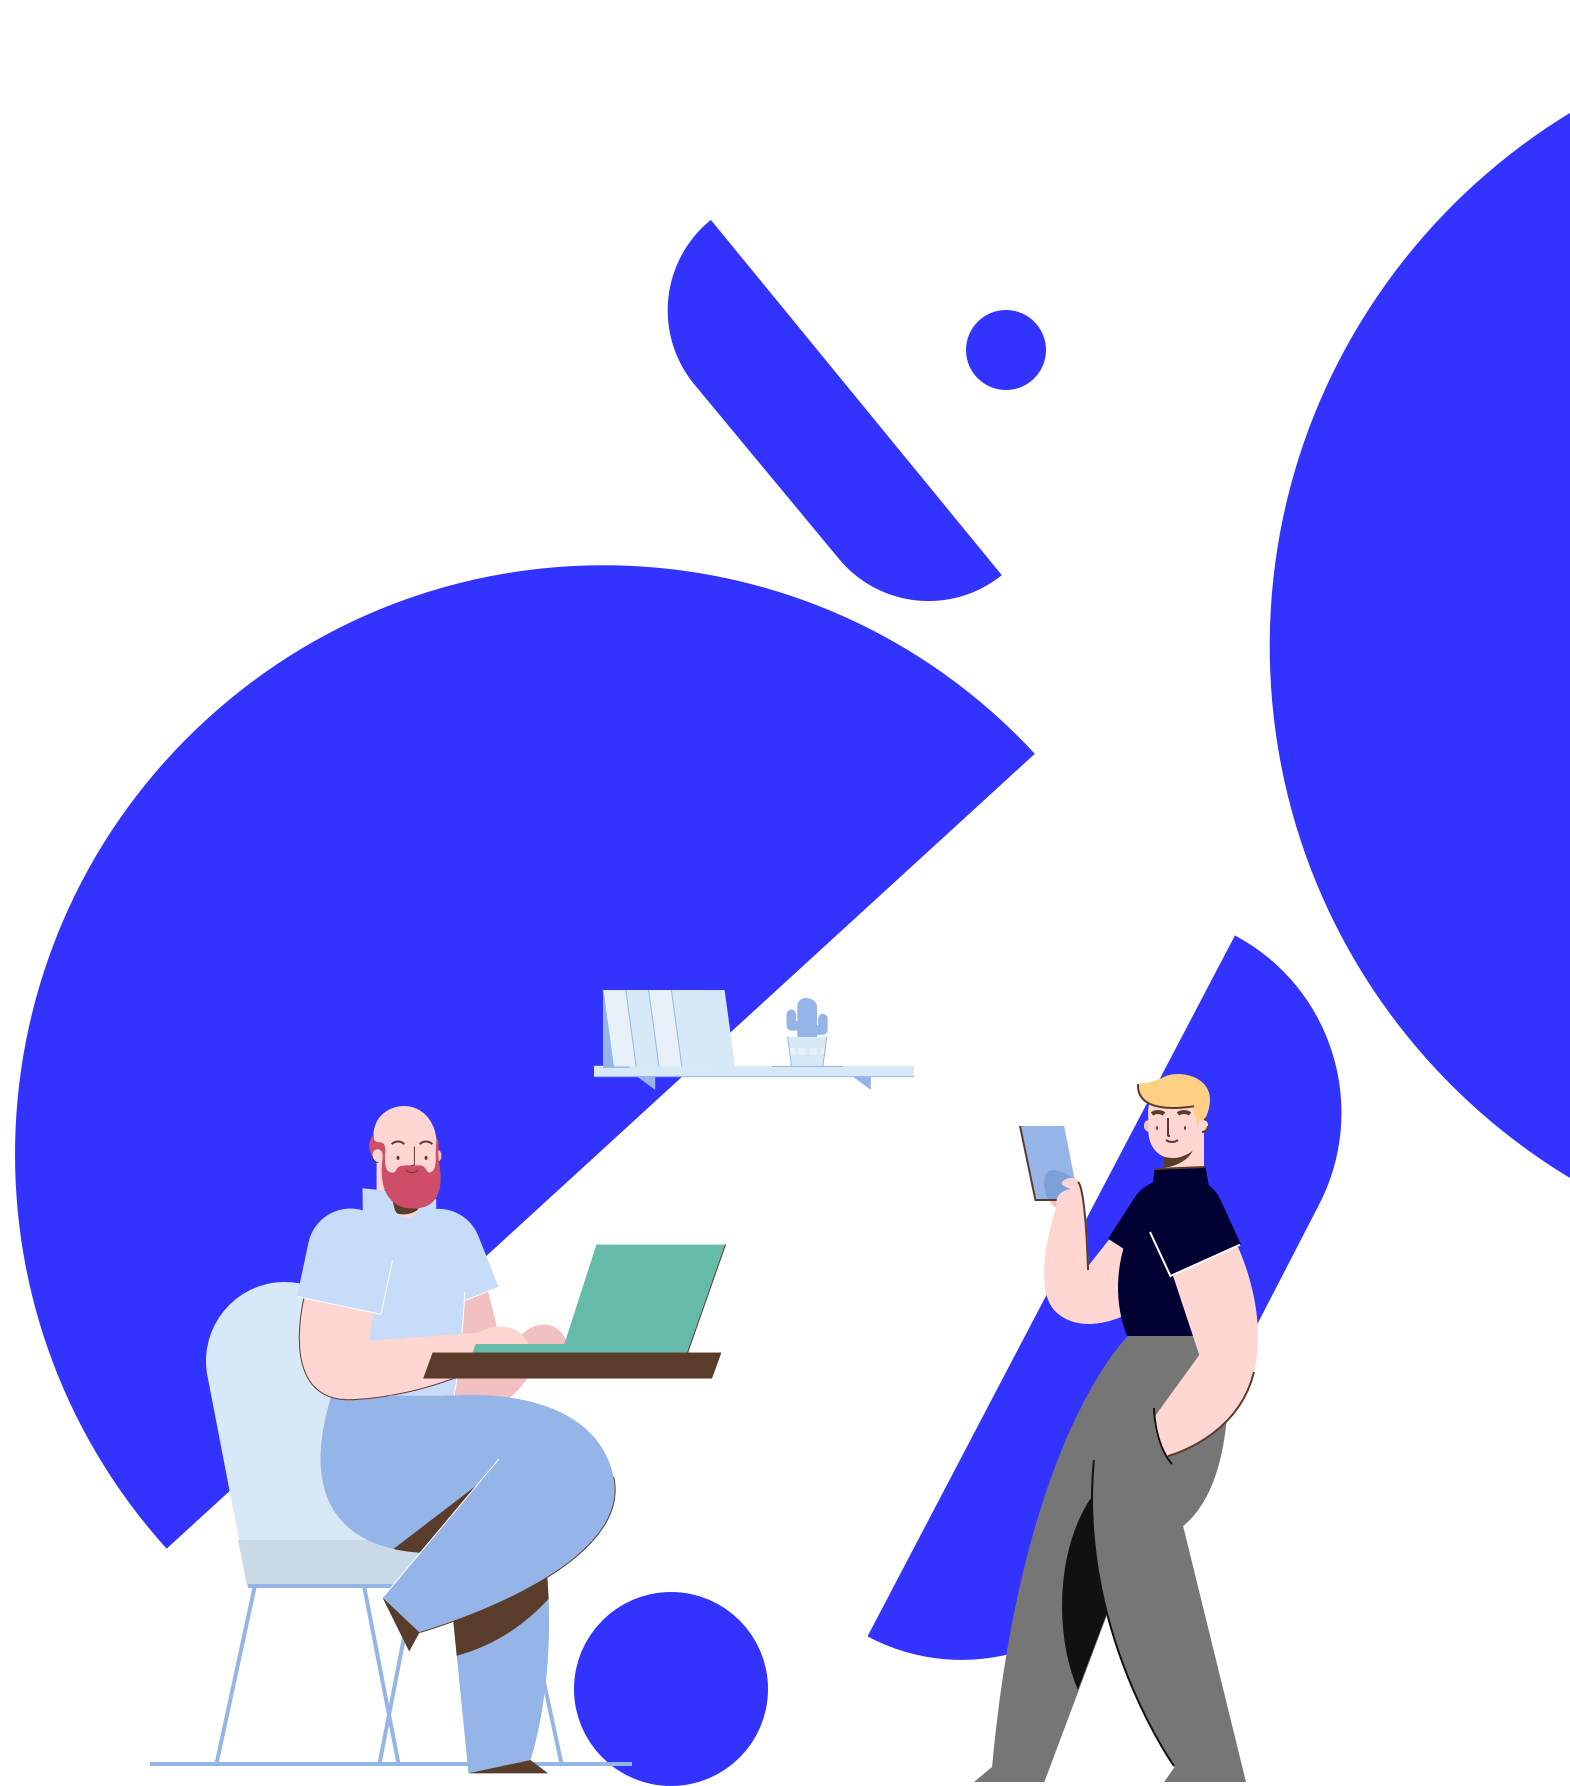
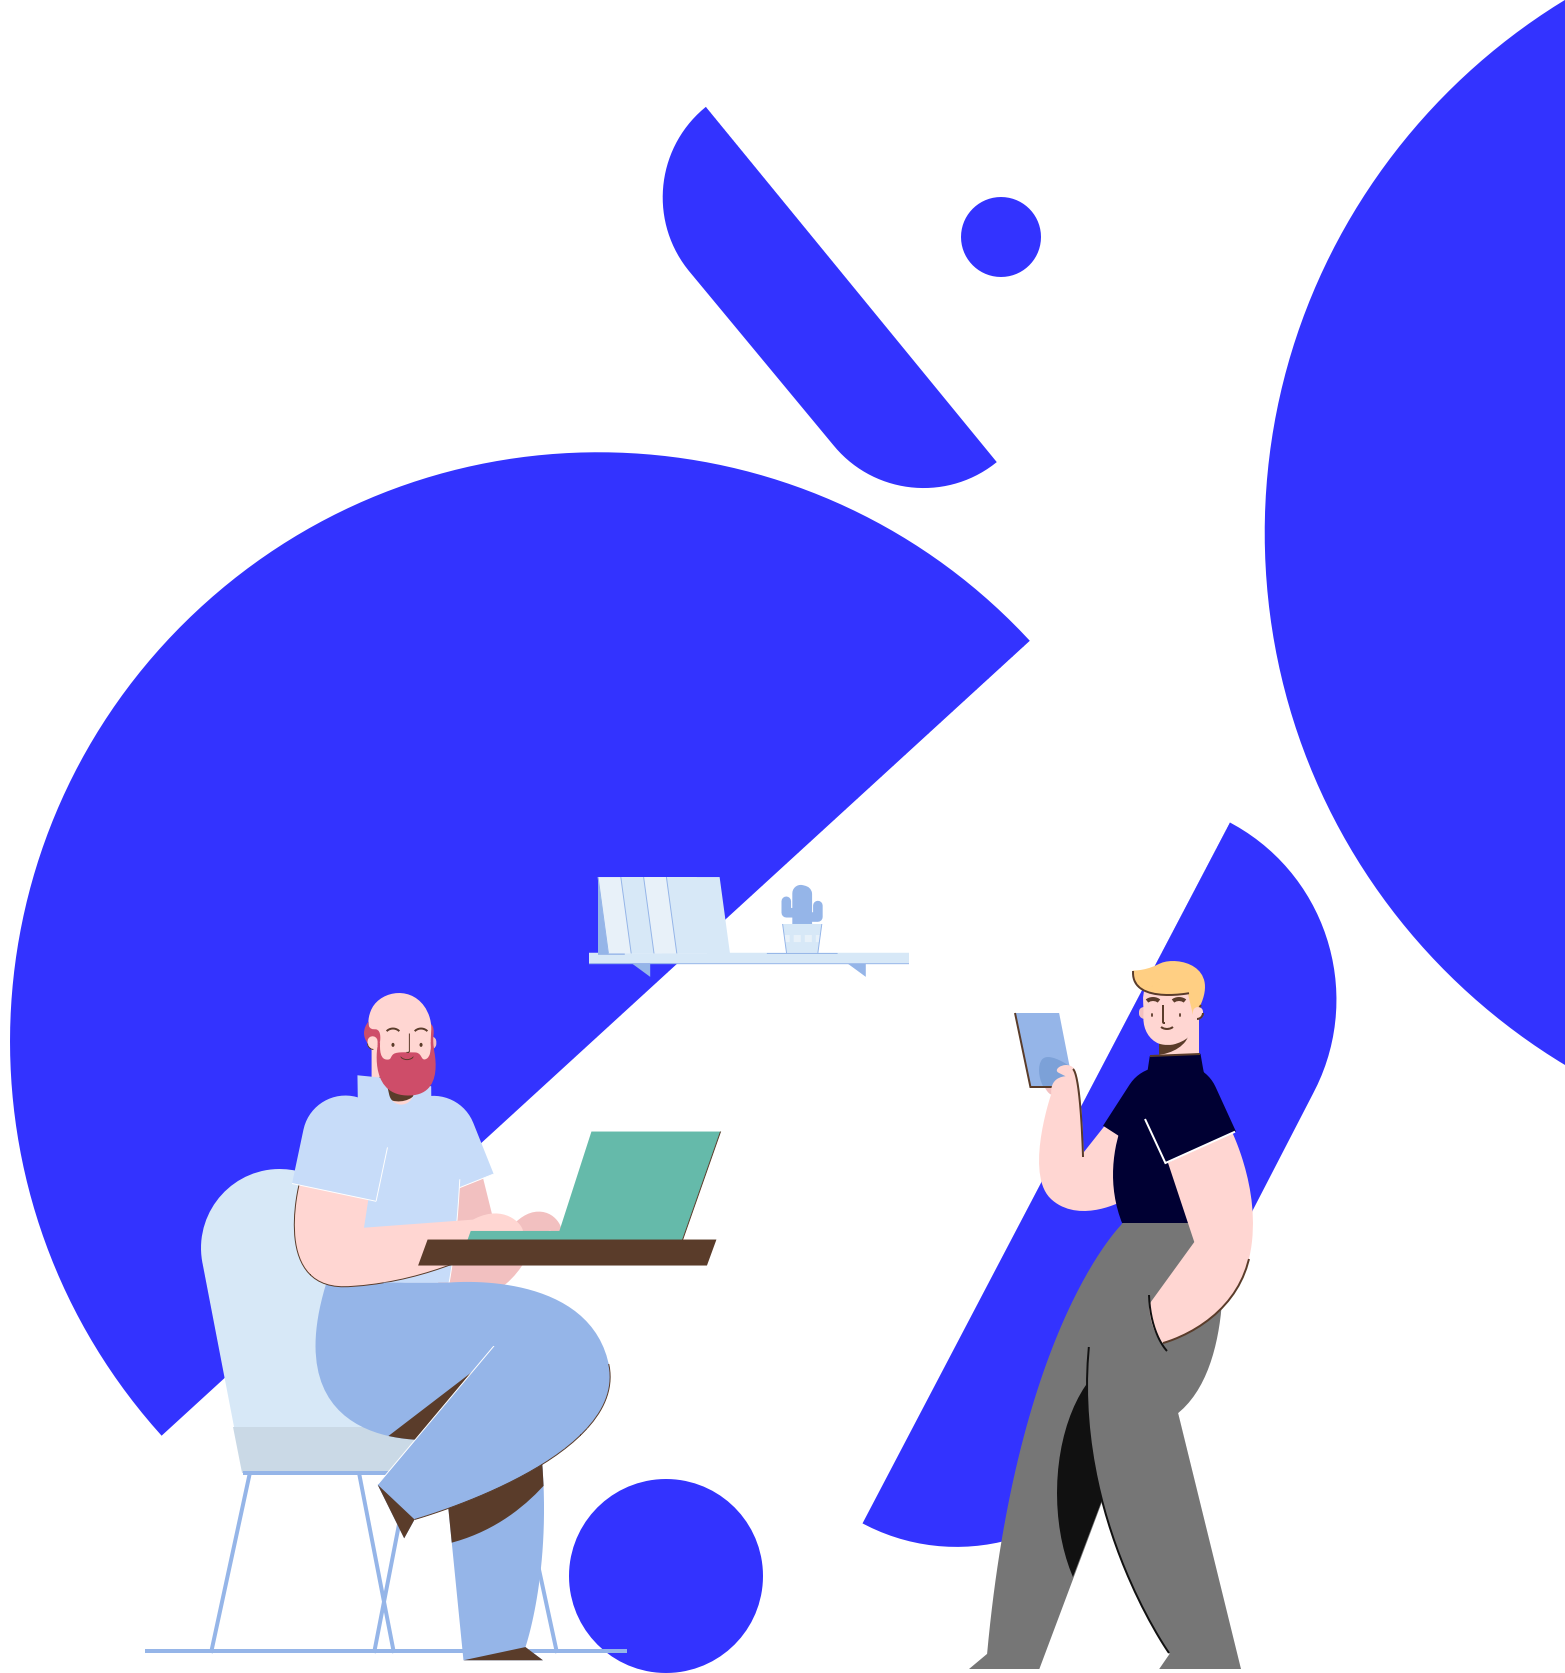
Building Desktop

diff --git a/src/pages/index.js b/src/pages/index.js
@@ -22,55 +22,63 @@ function App() {
 
   return (
     <ThemeProvider theme={themeMode}>
-      <div className="container p-0">
+      <div className={`${styles.body} "container-fluid p-0"`}>
         <GlobalStyles />
         {/* <Toggle theme={theme} toggleTheme={toggleTheme} /> */}
-        <Header> </Header>
-        <div className="row">
-          <div className="col-12 col-sm-6">
-            
-            <div className='px-3'>
-            <div className="row">
-              <div className="col-12 mt-5">
-                <h1 className={styles.title}>
-                  Sit tight we are working on it!{" "}
-                </h1>
-              </div>
-              <div className="col-12">
-                <p className={(styles.subTitle, "mb-0")}>
-                  We can’ t wait to show you what we have created for our own
-                  website, but we need a little more time.If you would like to
-                  connect with us feel free to email or call and we will get
-                  back to you shortly!Stay safe!
-                </p>
-              </div>
-            </div>
-            <div className="mt-4 mb-4">
+        <Header />
+        <div className="row align-items-center" >
+          <div className="col-12 col-sm-6 pr-0">
+            <div className={`${styles.leftContent}`}>
               <div className="row">
-                <Phone />
+                <div className="col-12 mt-3">
+                  <h1 className={styles.title}>
+                    Sit tight we are working on it!{" "}
+                  </h1>
+                </div>
+                <div className="col-12">
+                  <p className={`${styles.subTitle} mb-0`}>
+                    We can’ t wait to show you what we have created for our own
+                    website, but we need a little more time.If you would like to
+                    connect with us feel free to email or call and we will get
+                    back to you shortly !Stay safe!
+                  </p>
+                </div>
+              </div>
+              <div className="mt-4 mb-4">
+                <div className="row">
+                  <Phone />
+                  <div className="col">
+                    <span className={styles.subTitle}>
+                      hello @advancedmankind.com{" "}
+                    </span>
+                  </div>
+                </div>
+              </div>
+              <div className="row">
+                <Email />
                 <div className="col">
                   <span className={styles.subTitle}>
-                    hello @advancedmankind.com{" "}
+                    (617) - 996 - 1338 x 0001
                   </span>
                 </div>
               </div>
             </div>
-            <div className="row">
-              <Email />
-              <div className="col">
-                <span className={styles.subTitle}>
-                  (617) - 996 - 1338 x 0001
-                </span>
-              </div>
-            </div>
-            </div>
-            <img className={styles.background_mobile} src={require('../../static/background_mobile.png')} alt='' />
+            <img
+              className={styles.background_mobile}
+              src={require("../../static/background_mobile.png")}
+              alt=""
+            />
           </div>
 
-          <div className="d-none d-sm-block col-6">
-            <img src={require("../../static/background.png")} alt="" />
+          <div className="d-none d-sm-block col-sm-6 p-0 align-self-end">
+            <img
+              src={require("../../static/background.png")}
+              className={styles.background_tablet}
+              alt=""
+            />
           </div>
         </div>
+       
       </div>
       <Footer />
     </ThemeProvider>

diff --git a/src/theme/index.module.css b/src/theme/index.module.css
@@ -1,9 +1,18 @@
 @import url("https://fonts.googleapis.com/css2?family=Open+Sans&display=swap");
 
-.background_mobile{
+.body {
+  min-height: 83vh;
+  position: relative;
+}
+.leftContent {
+  padding: 0px 15px;
+}
+.header{
+  margin: 15px;
+}
+.background_mobile {
   max-width: 100%;
   position: relative;
-  left: -15px;
   top: -11vh;
 }
 .title {
@@ -14,8 +23,11 @@
   letter-spacing: 0;
   line-height: 40px;
 }
-.footer{
-  margin-top: auto; 
+.footer {
+  padding: 0px 15px;
+  height: 13vh;
+  position: absolute;
+  width: 100%;
 }
 .subTitle {
   font-size: 15px;
@@ -36,9 +48,18 @@
   line-height: 16px;
   align-items: center !important;
 }
-.logoFooter{
+.logoHeader {
+  width: 135px;
+  height: 42px;
+}
+.logoFooter {
   width: 40px;
   height: 40px;
+}
+
+.background_tablet {
+  max-width: 100%;
+  position: relative;
 }
 /* 
 // Extra small devices (portrait phones, less than 576px)
@@ -46,7 +67,14 @@
 
 // Small devices (landscape phones, 576px and up) */
 @media (min-width: 576px) {
-  
+  .background_mobile {
+    display: none;
+  }
+  .background_tablet {
+    max-width: 100%;
+    position: relative;
+    float: right;
+  }
 }
 /* 
 // Medium devices (tablets, 768px and up) */
@@ -54,15 +82,26 @@
   .footerText {
     text-align: right;
   }
-  
 }
 /* 
 // Large devices (desktops, 992px and up) */
 @media (min-width: 992px) {
+  .header{
+    margin: 40px;
+    margin-bottom: 0px;
+  }
+  .logoHeader {
+    width: 200px;
+    height: 42px;
+  }
+
+  .footer {
+    padding: 0px 40px;
+  }
   .footerText {
     text-align: right;
   }
-  .logoFooter{
+  .logoFooter {
     width: 60px;
     height: 60px;
   }
@@ -70,6 +109,18 @@
 /* 
 // Extra large devices (large desktops, 1200px and up) */
 @media (min-width: 1200px) {
+  .title {
+    font-size: 36px;
+  }
+  .leftContent {
+    width: 54%;
+    margin: auto;
+  }
+  .background_tablet {
+    max-width: 80%;
+    position: relative;
+    float: right;
+  }
   .footerText {
     text-align: right;
   }

diff --git a/src/components/Header.js b/src/components/Header.js
@@ -1,33 +1,26 @@
 import React, { Component } from "react";
 import { ReactSVG } from "react-svg";
+import styles from "../theme/index.module.css";
 
 export default class Header extends Component {
   render() {
     return (
-      <div className='px-3'>
+      <div className={styles.header}>
         <ReactSVG
-          src="svg.svg"
-          afterInjection={(error, svg) => {
-            if (error) {
-              console.error(error);
-              return;
-            }
-            console.log(svg);
-          }}
-          beforeInjection={(svg) => {
-            svg.classList.add("svg-class-name");
-            svg.setAttribute("style", "width: 135px");
-          }}
-          evalScripts="always"
-          fallback={() => <span>Error!</span>}
-          loading={() => <span>Loading</span>}
-          renumerateIRIElements={false}
-          wrapper="span"
-          className="wrapper-class-name"
-          onClick={() => {
-            console.log("wrapper onClick");
-          }}
-        />
+        src="svg.svg"
+        afterInjection={(error, svg) => {
+          if (error) {
+            console.error(error);
+            return;
+          }
+          console.log(svg);
+        }}
+        beforeInjection={(svg) => {
+          svg.classList.add(styles.logoHeader);
+        }}
+        wrapper="div"
+        className="col-4 col-lg-8"
+      />
       </div>
     );
   }

diff --git a/src/components/footer.js b/src/components/footer.js
@@ -4,15 +4,15 @@ import Logo from "../svgs/logo";
 export default class Footer extends Component {
   render() {
     return (
-      <footer className={styles.footer, 'px-3'}> 
+      <footer className={`${styles.footer}`}> 
         <div className="row">
-          <hr class={(styles.separator, "col mx-4")}></hr>
+          <hr class={`${styles.separator} col mx-4`}></hr>
         </div>
         <div className="row">
           <Logo />
           <div className="col col-lg-4">
             <p className={styles.footerText}>
-              2020 © Advanced Mankind, LLC. All rights reserved.
+              2020 © Advanced Mankind, North America, Inc. All rights reserved.
             </p>
           </div>
         </div>

diff --git a/src/theme/global.js b/src/theme/global.js
@@ -9,7 +9,9 @@ export const GlobalStyles = createGlobalStyle `
     background: ${({ theme }) => theme.body};
     color: ${({ theme }) => theme.text};
     transition: all 0.25s linear;
-    padding: 18px 0px;
+    padding: 0px;
+    padding-bottom:13vh;
+    min-height: 83vh;
     font-family: 'Open Sans', sans-serif;
     
   }`
